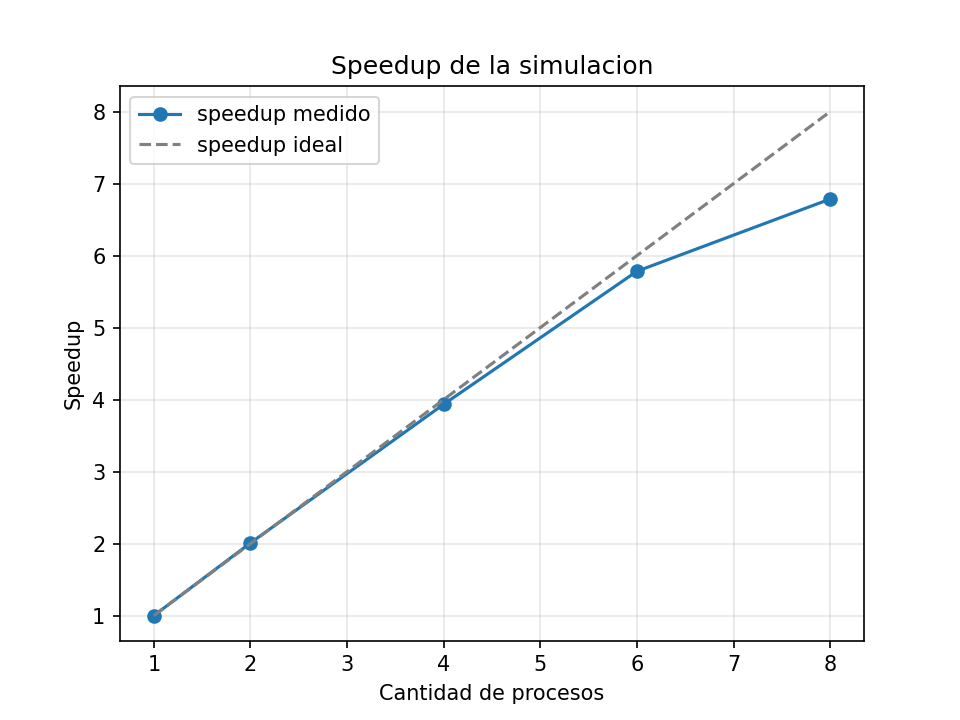
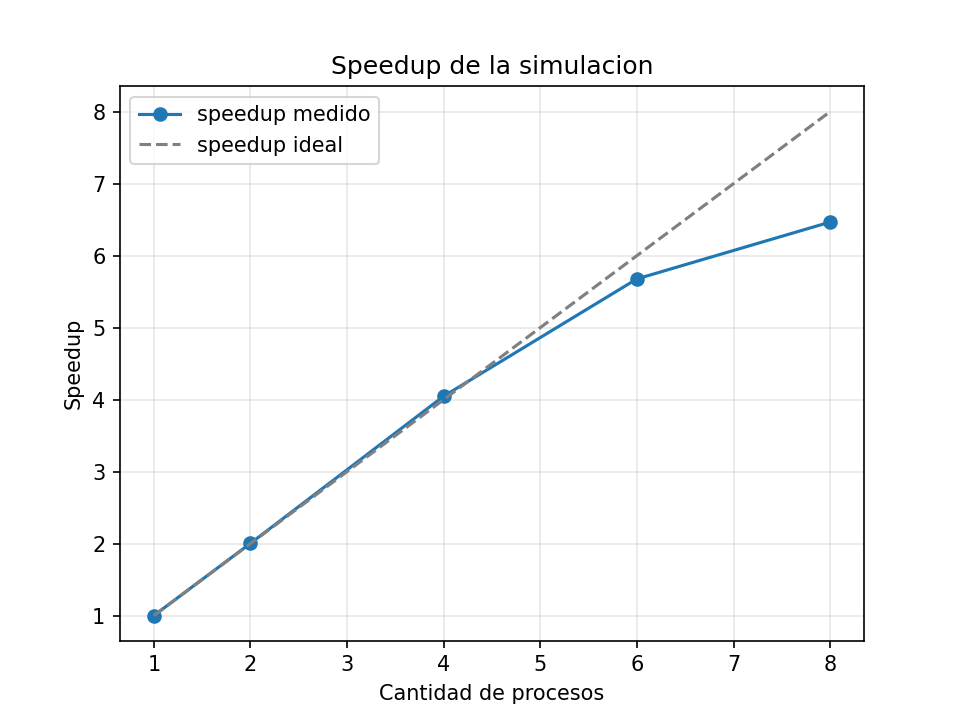
Mostrar mediana y promedio recortado, con 10 corridas por configuracion

diff --git a/src/graficos.py b/src/graficos.py
@@ -11,12 +11,30 @@ ARCHIVO = "resultados/speedup.csv"
 
 
 def mediana(lista):
-    """Devuelve el valor del medio de una lista ordenada."""
+    """Devuelve el valor del medio de una lista ordenada.
+
+    Es lo que pide la consigna. Sirve para que una corrida lenta suelta
+    (porque justo el sistema operativo estaba haciendo otra cosa) no
+    arruine el resultado.
+    """
     ordenada = sorted(lista)
     mitad = len(ordenada) // 2
     if len(ordenada) % 2 == 1:
         return ordenada[mitad]
     return (ordenada[mitad - 1] + ordenada[mitad]) / 2
+
+
+def promedio_recortado(lista):
+    """Promedio sacando el valor mas chico y el mas grande.
+
+    Es otra forma de sacar los valores raros. La calculamos ademas de la
+    mediana para poder comparar: si las dos dan parecido, quiere decir que
+    las mediciones fueron estables.
+    """
+    ordenada = sorted(lista)
+    if len(ordenada) > 2:
+        ordenada = ordenada[1:-1]
+    return sum(ordenada) / len(ordenada)
 
 
 # Juntamos los tiempos de cada cantidad de procesos
@@ -31,15 +49,24 @@ with open(ARCHIVO) as f:
 
 procesos = sorted(tiempos.keys())
 medianas = [mediana(tiempos[p]) for p in procesos]
+recortados = [promedio_recortado(tiempos[p]) for p in procesos]
 
-# El speedup se mide contra la version serial (1 proceso)
+# El speedup se mide contra la version serial (1 proceso): Sp = T1 / Tp
 tiempo_serial = medianas[0]
 speedup = [tiempo_serial / t for t in medianas]
 eficiencia = [s / p for s, p in zip(speedup, procesos)]
 
-print("procesos | tiempo (s) | speedup | eficiencia")
-for p, t, s, e in zip(procesos, medianas, speedup, eficiencia):
-    print("%8d | %10.3f | %7.2f | %10.2f" % (p, t, s, e))
+# Lo mismo pero con el promedio recortado, para comparar los dos metodos
+serial_recortado = recortados[0]
+speedup_recortado = [serial_recortado / t for t in recortados]
+
+print("Corridas por configuracion:", len(tiempos[procesos[0]]))
+print("")
+print("procesos | mediana (s) | speedup | eficiencia | prom. recortado | speedup")
+for i, p in enumerate(procesos):
+    print("%8d | %11.3f | %7.2f | %10.2f | %15.3f | %7.2f"
+          % (p, medianas[i], speedup[i], eficiencia[i],
+             recortados[i], speedup_recortado[i]))
 
 # Grafico de speedup
 plt.figure()

diff --git a/README.md b/README.md
@@ -51,14 +51,14 @@ Mas detalles y los comandos de los experimentos en [docs/como-correr.md](docs/co
 ## Resultado que ya tenemos
 
 Speedup medido en la notebook de Nicolas (2 millones de grupos, K=23,
-mediana de 3 corridas):
+mediana de 10 corridas):
 
-| Procesos | Tiempo | Speedup | Eficiencia |
+| Procesos | Mediana | Speedup | Eficiencia |
 |---|---|---|---|
-| 1 | 1.330 s | 1.00 | 1.00 |
-| 2 | 0.662 s | 2.01 | 1.00 |
-| 4 | 0.338 s | 3.93 | 0.98 |
-| 6 | 0.230 s | 5.78 | 0.96 |
-| 8 | 0.196 s | 6.79 | 0.85 |
+| 1 | 1.325 s | 1.00 | 1.00 |
+| 2 | 0.661 s | 2.00 | 1.00 |
+| 4 | 0.328 s | 4.05 | 1.01 |
+| 6 | 0.233 s | 5.68 | 0.95 |
+| 8 | 0.205 s | 6.47 | 0.81 |
 
 Falta correr lo mismo en las otras dos notebooks y en el servidor.

diff --git a/docs/como-correr.md b/docs/como-correr.md
@@ -59,13 +59,13 @@ done
 ## Experimento 3: speedup
 
 La consigna pide correr varias veces y quedarse con la mediana, asi que
-repetimos cada configuracion 5 veces.
+repetimos cada configuracion 10 veces.
 
 ```bash
 # Guardamos el encabezado una sola vez
 echo "tipo,k,grupos,procesos,p_simulada,p_teorica,tiempo" > resultados/speedup.csv
 
-for repeticion in 1 2 3 4 5
+for repeticion in 1 2 3 4 5 6 7 8 9 10
 do
     ./serial 23 5000000 | grep "^csv" >> resultados/speedup.csv
 
